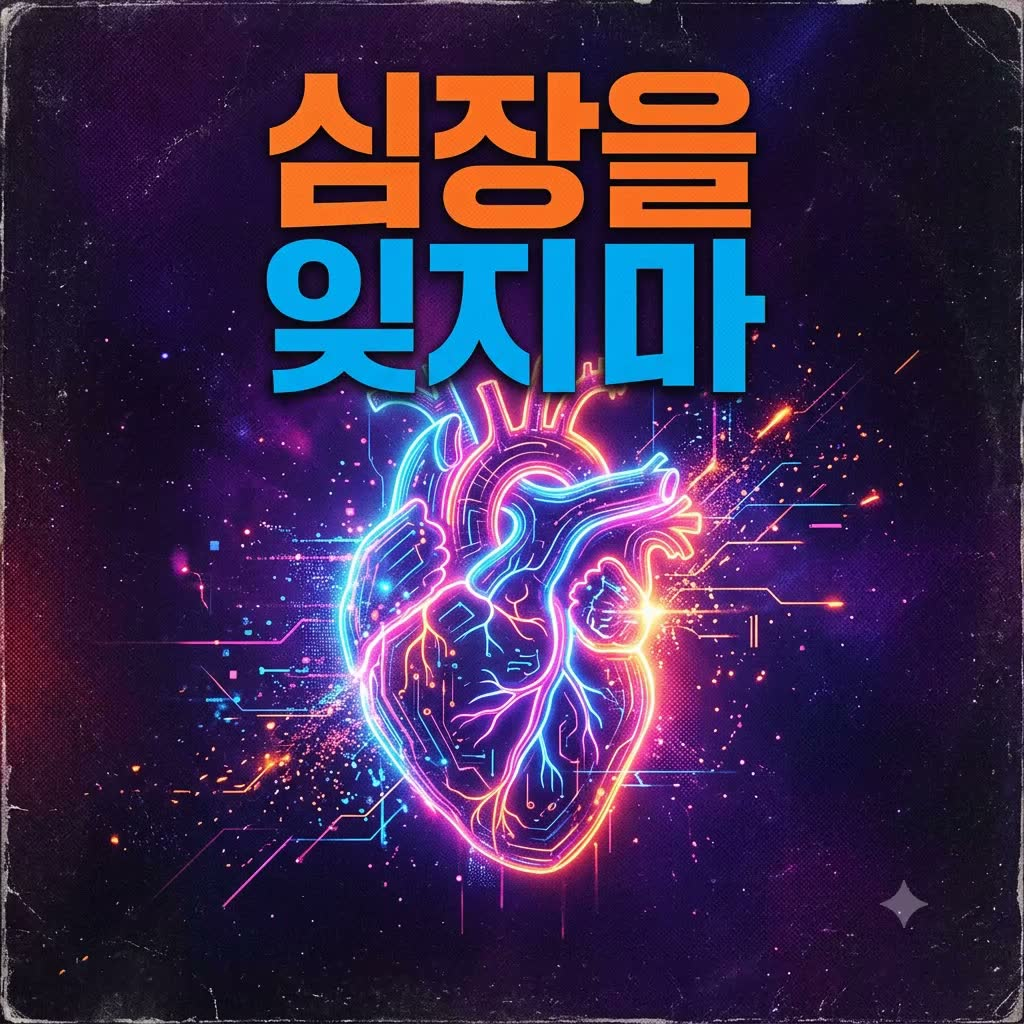
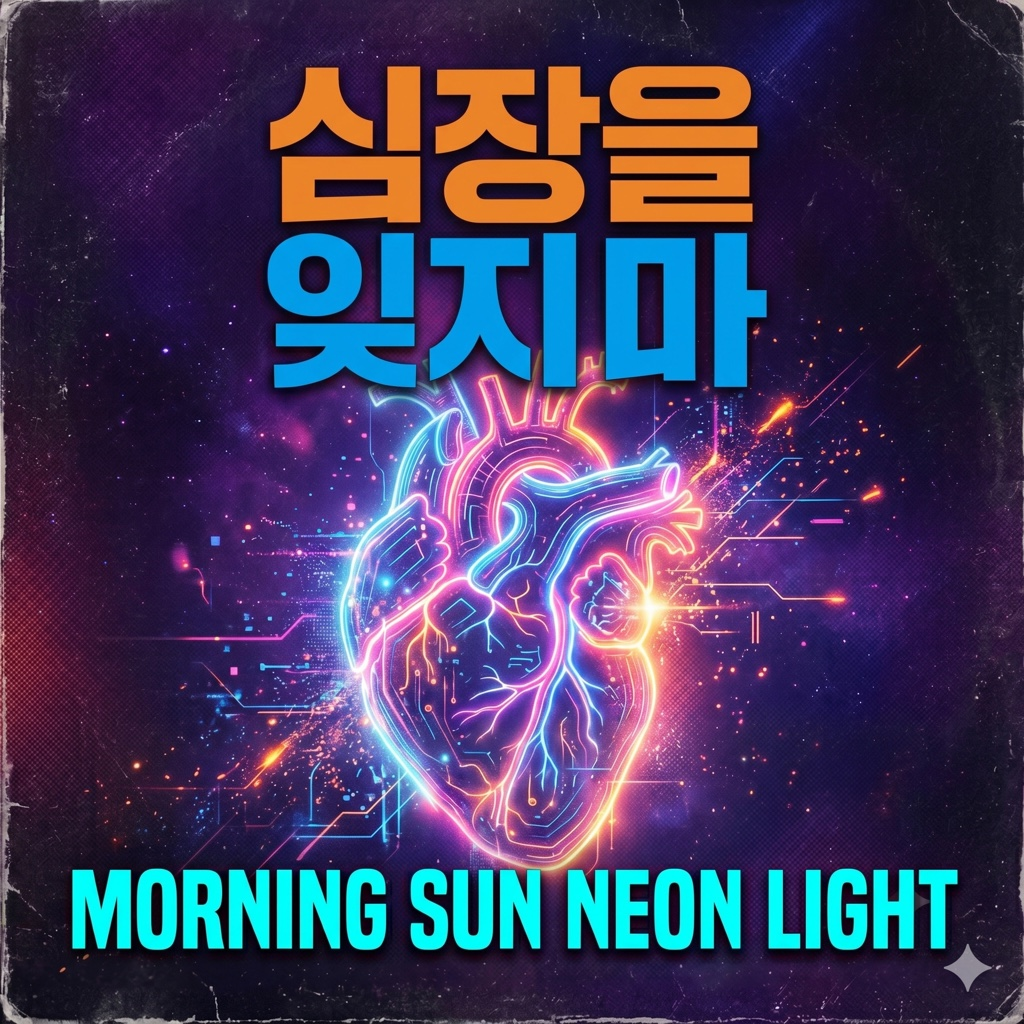
Update Morning Sun Neon Light cover with official album artwork.
Converts the provided PNG to 1024px JPG and refreshes the copyright cover fingerprint.

diff --git a/data/copyright-registry.ts b/data/copyright-registry.ts
@@ -249,7 +249,7 @@ export const songCopyrightRegistry: SongCopyrightRecord[] = [
     "title": "Morning Sun Neon Light",
     "workType": "family-original",
     "createdDate": "2026-06-22",
-    "registeredAt": "2026-06-23T00:23:28.455Z",
+    "registeredAt": "2026-06-23T00:40:00.607Z",
     "primaryArtistSlug": "tio-chien",
     "subjectMemberSlugs": [
       "tio-chien"
@@ -264,7 +264,7 @@ export const songCopyrightRegistry: SongCopyrightRecord[] = [
     "audioAssetPath": "/assets/tio-chien/morning-sun-neon-light.mp3",
     "coverAssetPath": "/assets/tio-chien/morning-sun-neon-light.jpg",
[3 lines of base64/hex data omitted]
   },
   {
     "registryId": "CR-2026-gold-in-the-tile",